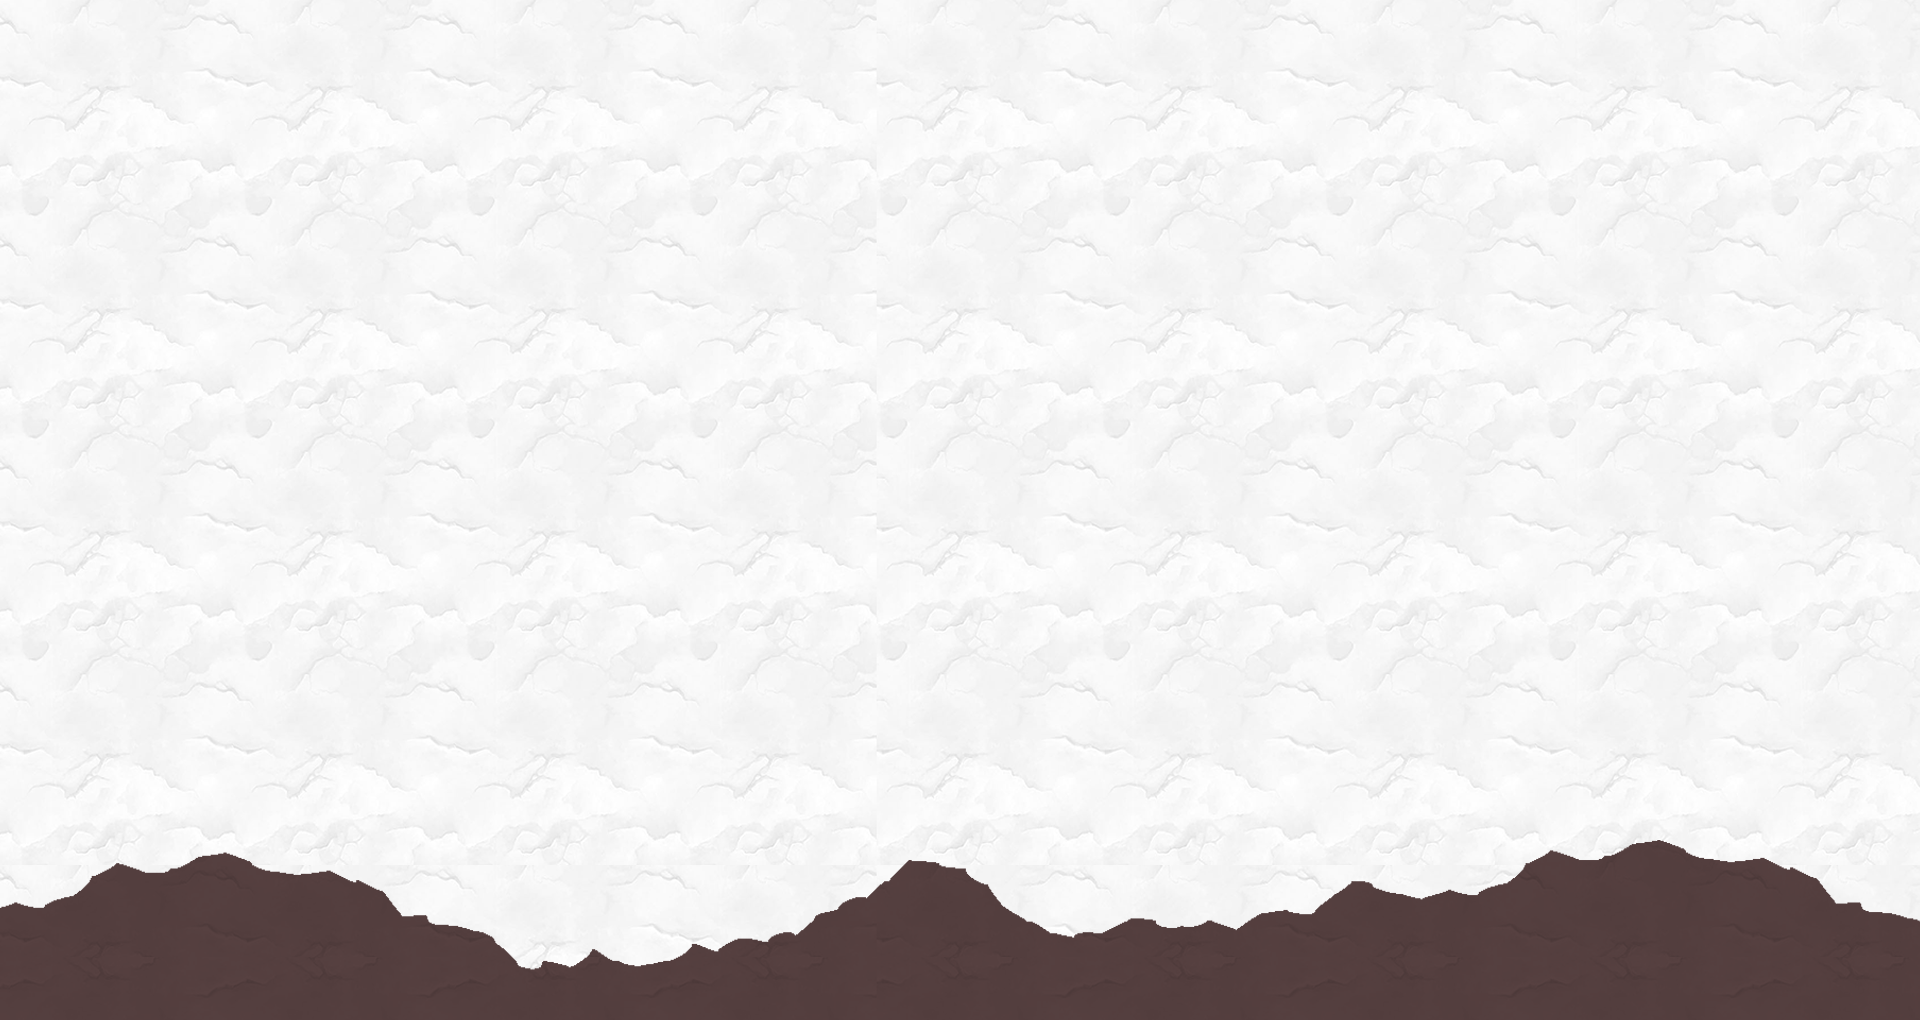
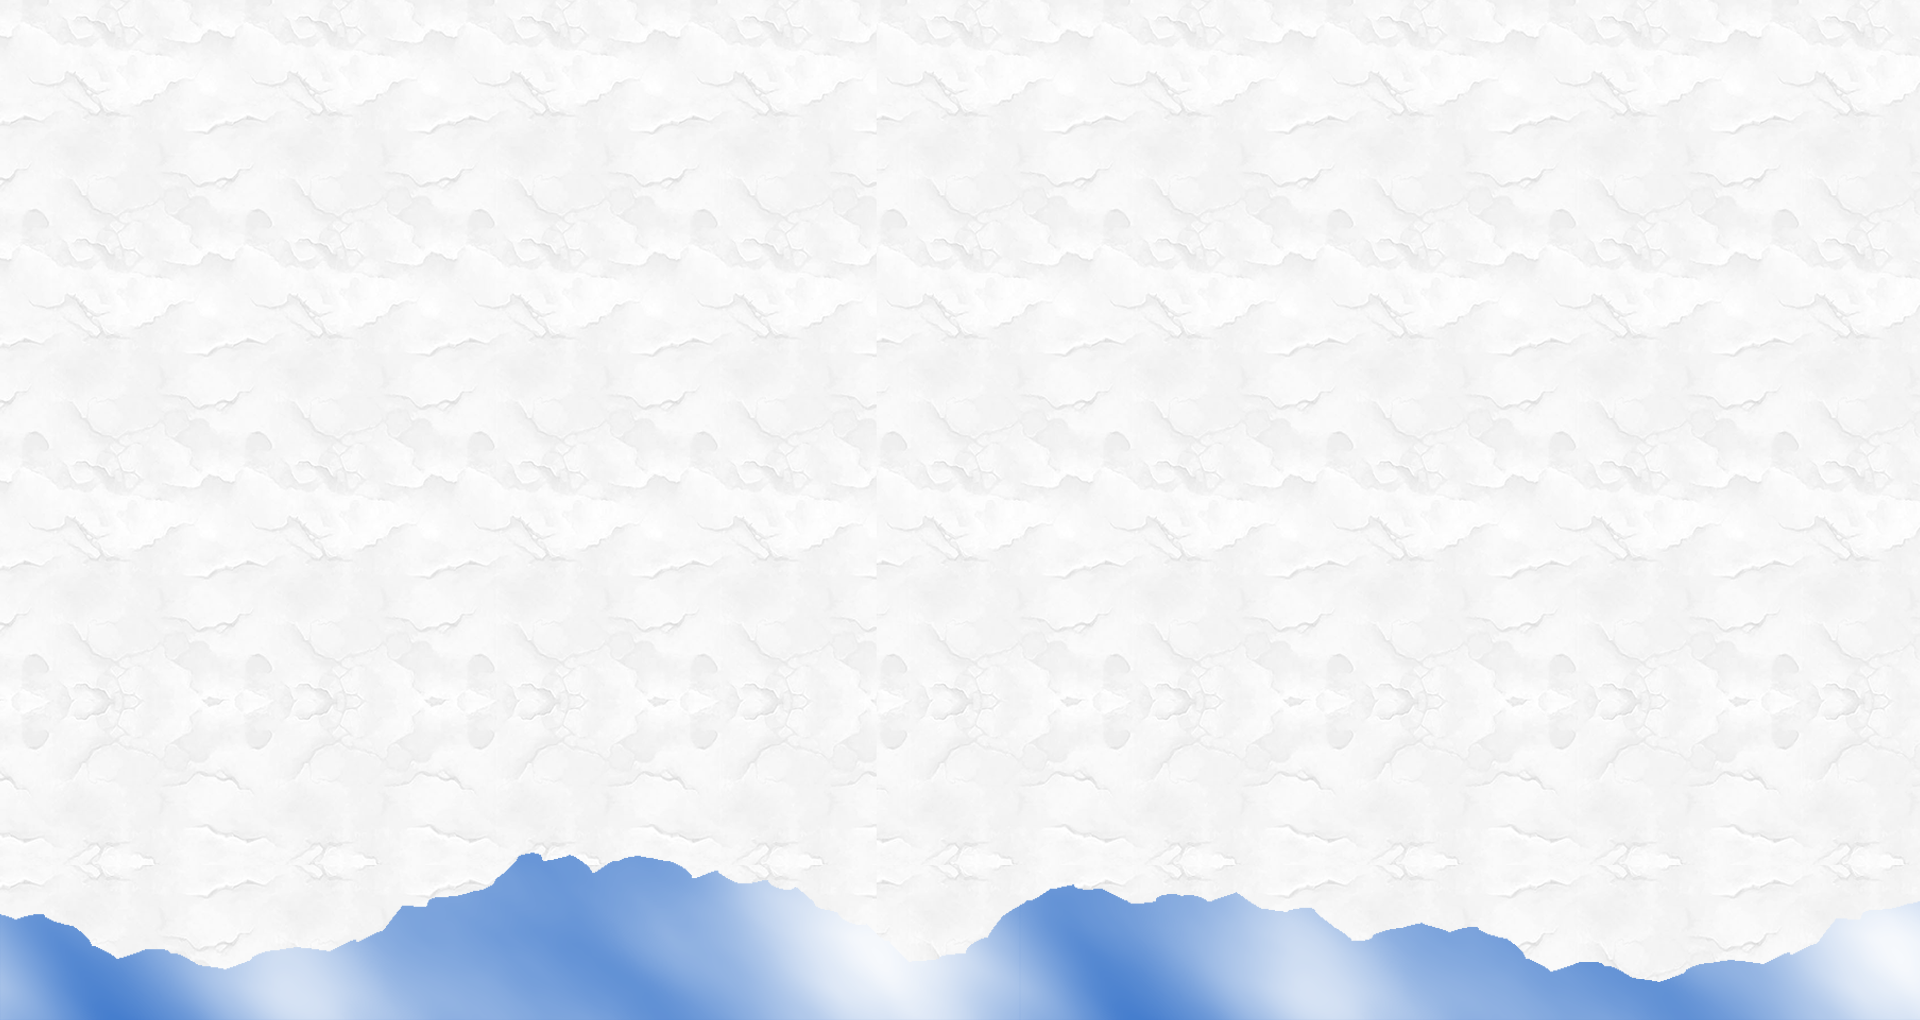
upando alteraçoes bg
novos bgs com a imagem de fundo

Changed region(s): [[0.0, 0.8206, 1.0, 1.0]]

diff --git a/Techie/index.html b/Techie/index.html
@@ -44,9 +44,9 @@
   <!-- ======= Header ======= -->
   <header id="header" class="fixed-top ">
     <div class="container d-flex align-items-center justify-content-between">
-      <h1 class="logo"><a href="index.html">My Little World</a></h1>
-      <!-- Uncomment below if you prefer to use an image logo -->
-      <!--<a href="index.html" class="logo"><img src="assets/img/name.png" alt="" class="img-fluid"></a>-->
+<!--       <h1 class="logo"><a href="index.html"><img src="assets/img/logohead.png" alt=""></a></h1>
+ -->      <!-- Uncomment below if you prefer to use an image logo -->
+      <a href="index.html" class="logo"><img src="assets/img/logohead.png"></a>
 
       <nav id="navbar" class="navbar">
         <ul>
@@ -64,7 +64,7 @@
   </header><!-- End Header -->
 
   <!-- ======= Hero Section ======= -->
-  
+
 
   <main id="main">
 
@@ -83,7 +83,7 @@
           </div>
         </div>
       </div>
-  
+
     </section><!-- End Hero -->
 
     <!-- ======= About Section ======= -->
@@ -167,7 +167,7 @@
                   quam, ultricies eget id, aliquam eget nibh et. Maecen aliquam, risus at semper.
                   <i class="bx bxs-quote-alt-right quote-icon-right"></i>
                 </p>
-                
+
                 <h3>Q1</h3>
               </div>
             </div><!-- End testimonial item -->
@@ -193,7 +193,7 @@
                   tempor labore quem eram duis noster aute amet eram fore quis sint minim.
                   <i class="bx bxs-quote-alt-right quote-icon-right"></i>
                 </p>
-                
+
                 <h3>Q3</h3>
               </div>
             </div><!-- End testimonial item -->
@@ -273,13 +273,132 @@
               </div>
             </li>
 
-            
+
 
           </ul>
         </div>
 
       </div>
     </section><!-- End Frequently Asked Questions Section -->
+
+    <!-- ======= Testimonials Section ======= -->
+    <section id="testimonials" class="testimonials ">
+      <div class="container" data-aos="fade-up">
+
+        <div class="section-title">
+          <h2>ROADMAP</h2>
+          <p>Magnam dolores commodi suscipit. Necessitatibus eius consequatur ex aliquid fuga eum quidem. Sit sint
+            consectetur velit. Quisquam quos quisquam cupiditate. Et nemo qui impedit suscipit alias ea. Quia fugiat sit
+            in iste officiis commodi quidem hic quas.</p>
+        </div>
+
+        <div class="testimonials-slider swiper" data-aos="fade-up" data-aos-delay="100">
+          <div class="swiper-wrapper">
+
+            <div class="swiper-slide">
+              <div class="testimonial-item">
+                <p>
+                  <i class="bx bxs-quote-alt-left quote-icon-left"></i>
+                  Proin iaculis purus consequat sem cure digni ssim donec porttitora entum suscipit rhoncus. Accusantium
+                  quam, ultricies eget id, aliquam eget nibh et. Maecen aliquam, risus at semper.
+                  <i class="bx bxs-quote-alt-right quote-icon-right"></i>
+                </p>
+
+                <h3>Q1</h3>
+              </div>
+            </div><!-- End testimonial item -->
+
+            <div class="swiper-slide">
+              <div class="testimonial-item">
+                <p>
+                  <i class="bx bxs-quote-alt-left quote-icon-left"></i>
+                  Export tempor illum tamen malis malis eram quae irure esse labore quem cillum quid cillum eram malis
+                  quorum velit fore eram velit sunt aliqua noster fugiat irure amet legam anim culpa.
+                  <i class="bx bxs-quote-alt-right quote-icon-right"></i>
+                </p>
+                <img src="assets/img/testimonials/testimonials-2.jpg" class="testimonial-img" alt="">
+                <h3>Q2</h3>
+              </div>
+            </div><!-- End testimonial item -->
+
+            <div class="swiper-slide">
+              <div class="testimonial-item">
+                <p>
+                  <i class="bx bxs-quote-alt-left quote-icon-left"></i>
+                  Enim nisi quem export duis labore cillum quae magna enim sint quorum nulla quem veniam duis minim
+                  tempor labore quem eram duis noster aute amet eram fore quis sint minim.
+                  <i class="bx bxs-quote-alt-right quote-icon-right"></i>
+                </p>
+
+                <h3>Q3</h3>
+              </div>
+            </div><!-- End testimonial item -->
+
+            <div class="swiper-slide">
+              <div class="testimonial-item">
+                <p>
+                  <i class="bx bxs-quote-alt-left quote-icon-left"></i>
+                  Fugiat enim eram quae cillum dolore dolor amet nulla culpa multos export minim fugiat minim velit
+                  minim dolor enim duis veniam ipsum anim magna sunt elit fore quem dolore labore.
+                  <i class="bx bxs-quote-alt-right quote-icon-right"></i>
+                </p>
+                <img src="assets/img/testimonials/testimonials-4.jpg" class="testimonial-img" alt="">
+                <h3>Q4</h3>
+              </div>
+            </div><!-- End testimonial item -->
+          </div>
+          <div class="swiper-pagination"></div>
+        </div>
+
+      </div>
+    </section><!-- End Testimonials Section -->
+
+    <!-- ======= Testimonials Section ======= -->
+    <section id="bg2" class="testimonials">
+      <div class="container" data-aos="fade-up">
+
+        <div class="section-title">
+          <h2>ROADMAP</h2>
+          <p>Magnam dolores commodi suscipit. Necessitatibus eius consequatur ex aliquid fuga eum quidem. Sit sint
+            consectetur velit. Quisquam quos quisquam cupiditate. Et nemo qui impedit suscipit alias ea. Quia fugiat sit
+            in iste officiis commodi quidem hic quas.</p>
+          <p>Magnam dolores commodi suscipit. Necessitatibus eius consequatur ex aliquid fuga eum quidem. Sit sint
+            consectetur velit. Quisquam quos quisquam cupiditate. Et nemo qui impedit suscipit alias ea. Quia fugiat sit
+            in iste officiis commodi quidem hic quas.</p>
+          <p>Magnam dolores commodi suscipit. Necessitatibus eius consequatur ex aliquid fuga eum quidem. Sit sint
+            consectetur velit. Quisquam quos quisquam cupiditate. Et nemo qui impedit suscipit alias ea. Quia fugiat sit
+            in iste officiis commodi quidem hic quas.</p>
+          <p>Magnam dolores commodi suscipit. Necessitatibus eius consequatur ex aliquid fuga eum quidem. Sit sint
+            consectetur velit. Quisquam quos quisquam cupiditate. Et nemo qui impedit suscipit alias ea. Quia fugiat sit
+            in iste officiis commodi quidem hic quas.</p>
+          <p>Magnam dolores commodi suscipit. Necessitatibus eius consequatur ex aliquid fuga eum quidem. Sit sint
+            consectetur velit. Quisquam quos quisquam cupiditate. Et nemo qui impedit suscipit alias ea. Quia fugiat sit
+            in iste officiis commodi quidem hic quas.</p>
+          <p>Magnam dolores commodi suscipit. Necessitatibus eius consequatur ex aliquid fuga eum quidem. Sit sint
+            consectetur velit. Quisquam quos quisquam cupiditate. Et nemo qui impedit suscipit alias ea. Quia fugiat sit
+            in iste officiis commodi quidem hic quas.</p>
+          <p>Magnam dolores commodi suscipit. Necessitatibus eius consequatur ex aliquid fuga eum quidem. Sit sint
+            consectetur velit. Quisquam quos quisquam cupiditate. Et nemo qui impedit suscipit alias ea. Quia fugiat sit
+            in iste officiis commodi quidem hic quas.</p>
+          <p>Magnam dolores commodi suscipit. Necessitatibus eius consequatur ex aliquid fuga eum quidem. Sit sint
+            consectetur velit. Quisquam quos quisquam cupiditate. Et nemo qui impedit suscipit alias ea. Quia fugiat sit
+            in iste officiis commodi quidem hic quas.</p>
+          <p>Magnam dolores commodi suscipit. Necessitatibus eius consequatur ex aliquid fuga eum quidem. Sit sint
+            consectetur velit. Quisquam quos quisquam cupiditate. Et nemo qui impedit suscipit alias ea. Quia fugiat sit
+            in iste officiis commodi quidem hic quas.</p>
+          <p>Magnam dolores commodi suscipit. Necessitatibus eius consequatur ex aliquid fuga eum quidem. Sit sint
+            consectetur velit. Quisquam quos quisquam cupiditate. Et nemo qui impedit suscipit alias ea. Quia fugiat sit
+            in iste officiis commodi quidem hic quas.</p>
+          <p>Magnam dolores commodi suscipit. Necessitatibus eius consequatur ex aliquid fuga eum quidem. Sit sint
+            consectetur velit. Quisquam quos quisquam cupiditate. Et nemo qui impedit suscipit alias ea. Quia fugiat sit
+            in iste officiis commodi quidem hic quas.</p>
+
+        </div>
+
+
+
+      </div>
+    </section><!-- End Testimonials Section -->
 
 
 

diff --git a/Techie/assets/css/style.css b/Techie/assets/css/style.css
@@ -134,7 +134,8 @@ h1, h2, h3, h4, h5, h6 {
   color: #fff;
 }
 #header .logo img {
-  max-height: 40px;
+  max-height: 70px;
+  max-width: 250px;
 }
 
 
@@ -509,7 +510,7 @@ section {
 --------------------------------------------------------------*/
 #about {
  /*  background-color: #000000; */
-  background-image: url("../img/cimabg.png");
+  background-image: url("../img/whitemiddle.png");
   background-repeat: no-repeat;
   background-size: cover;
   background-position: center; 
@@ -697,7 +698,7 @@ section#about p {
 # Features
 --------------------------------------------------------------*/
 #features {
-  background-image: url("../img/baixobg.png");
+  background-image: url("../img/castlewrld.png");
   background-repeat: no-repeat;
   background-size: cover;
   background-position: center;
@@ -743,9 +744,16 @@ section#about p {
 /*--------------------------------------------------------------
 # Testimonials
 --------------------------------------------------------------*/
+#bg2{
+  background-image: url("../img/florestwrld.png");
+  background-repeat: no-repeat;
+  background-size: cover;
+  background-position: center;
+}
+
 
 #testimonials {
-  background-image: url("../img/cimabg.png");
+  background-image: url("../img/whitemiddle.png");
   background-repeat: no-repeat;
   background-size: cover;
   background-position: center;
@@ -997,7 +1005,7 @@ section#about p {
 # Frequently Asked Questions
 --------------------------------------------------------------*/
 .faq {
-  background-image: url("../img/baixobg.png");
+  background-image: url("../img/trainwrld.png");
   background-repeat: no-repeat;
   background-size: cover;
   background-position: center;
